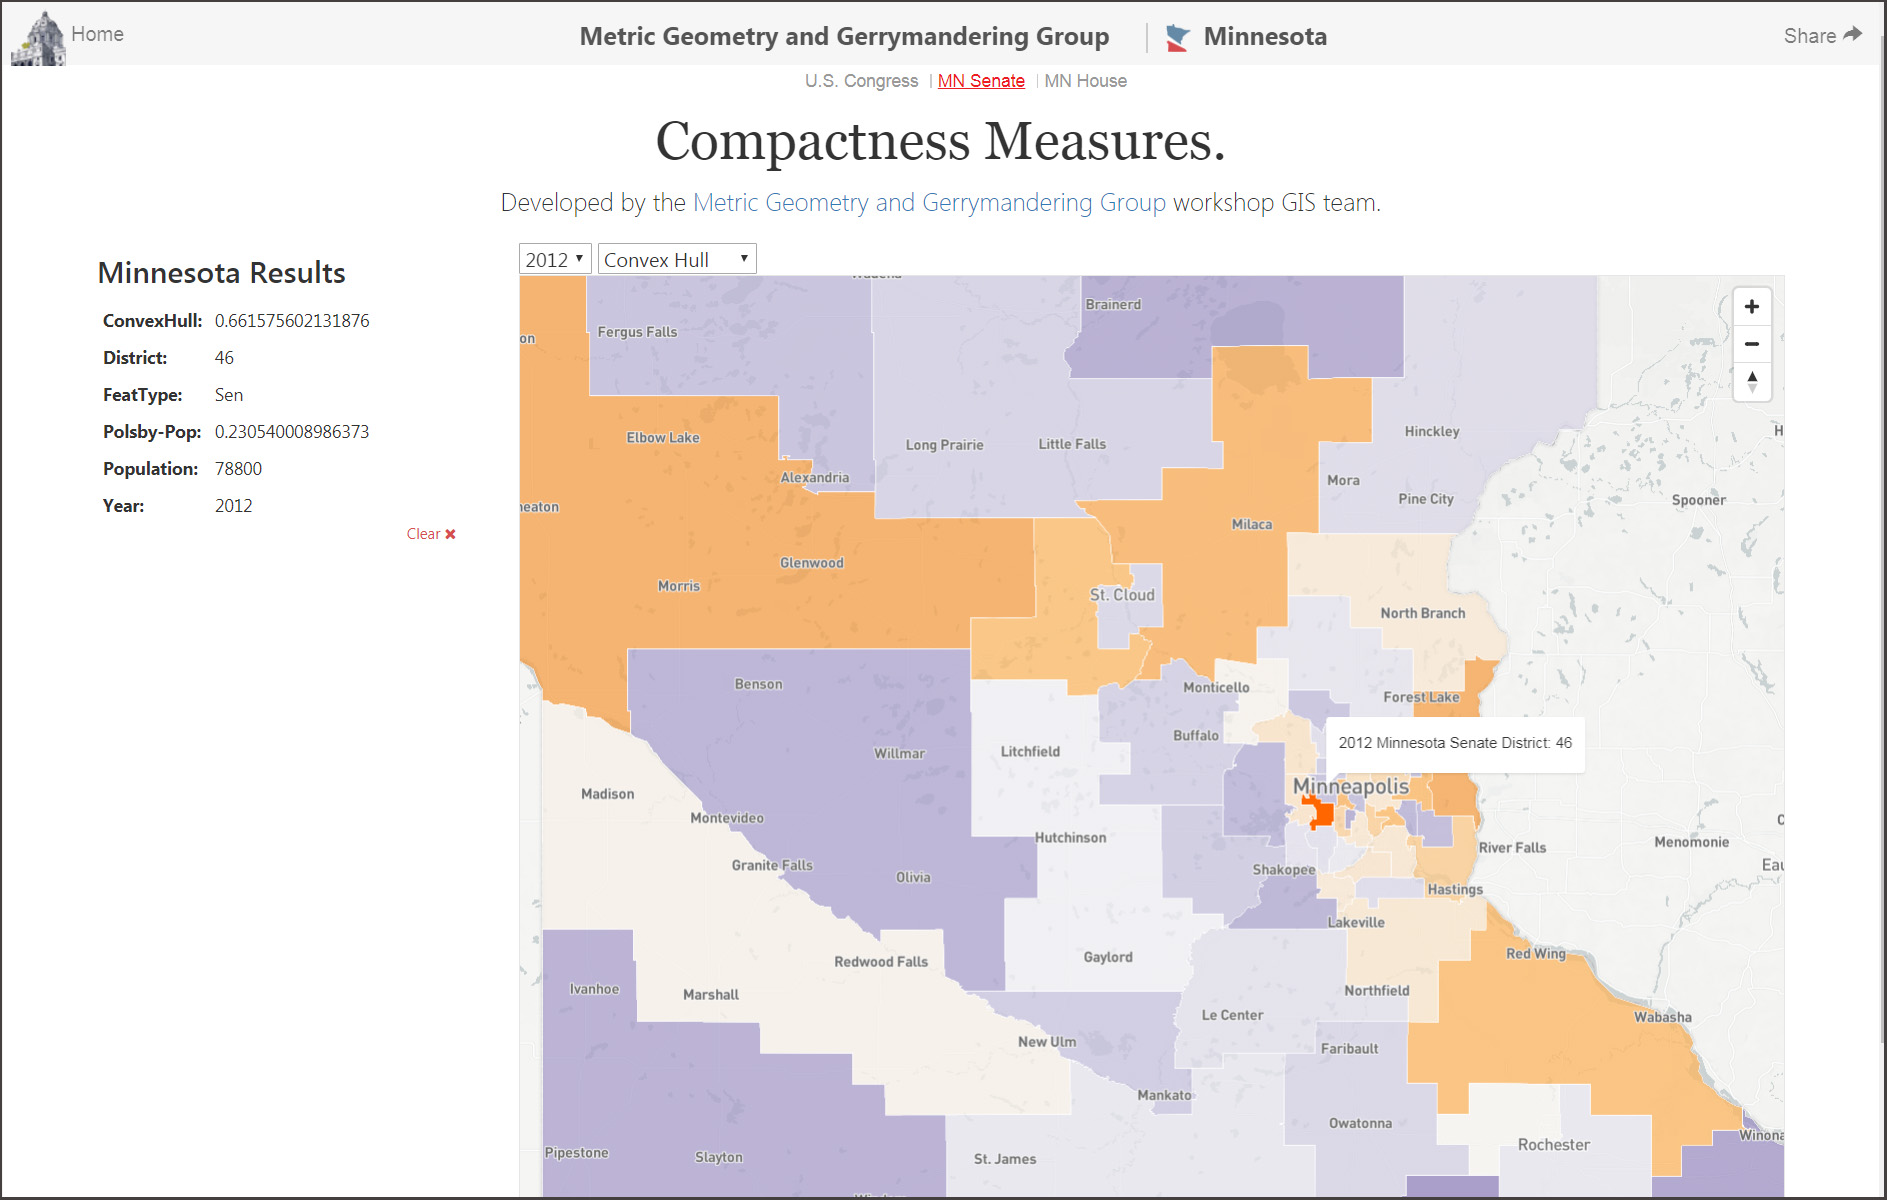
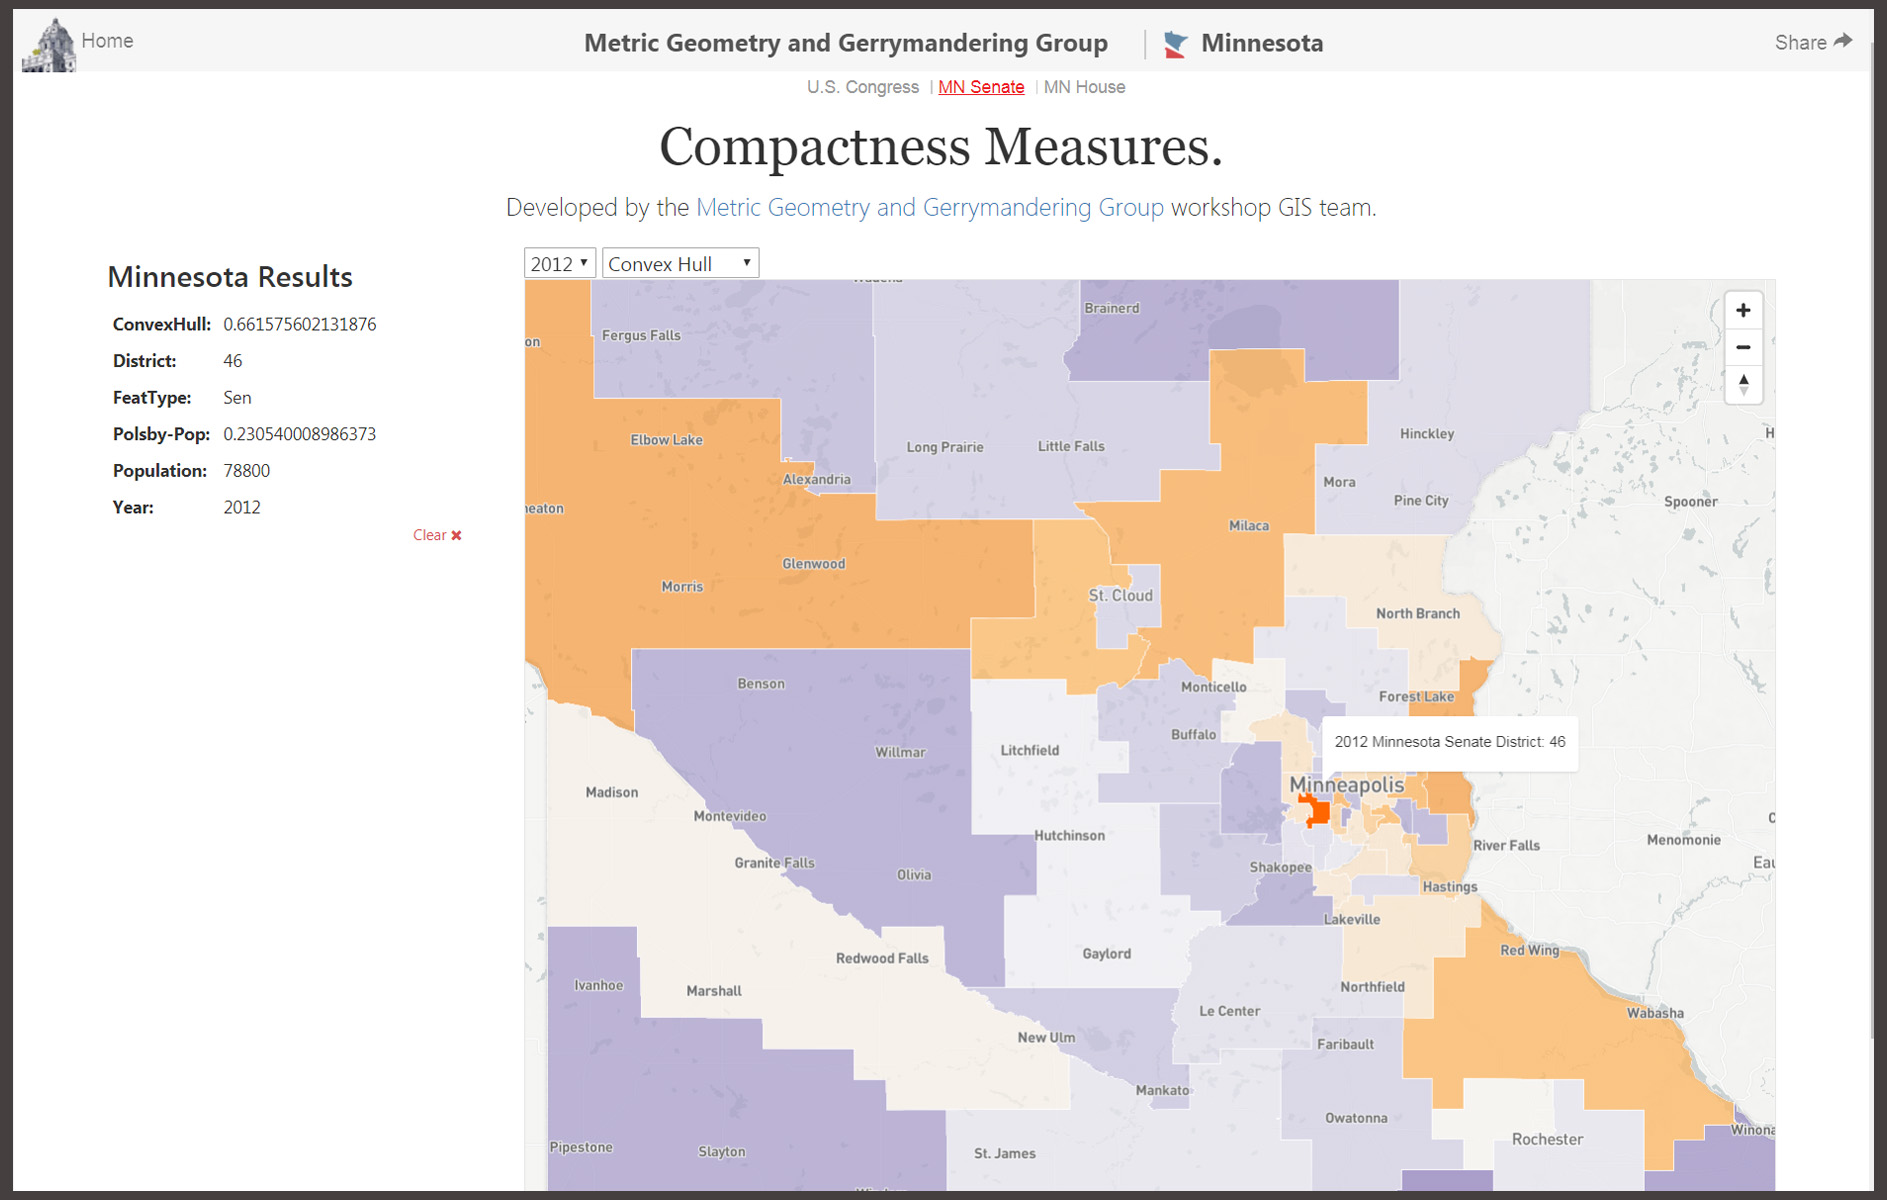
change og meta

diff --git a/index.html b/index.html
@@ -6,9 +6,24 @@
     <meta name="viewport" content="width=device-width, minimal-ui, minimum-scale=1.0, maximum-scale=1.0, user-scalable=no">
     <!-- The above 3 meta tags *must* come first in the head; any other head content must come *after* these tags -->
     <meta name="apple-mobile-web-app-capable" content="yes" />
-    <meta name="description" content="Interactive mapping of the 2016 Minnesota election.">
-    <meta name="author" content="Leg. Coordinating Commission GIS">
-    <meta name="keywords" content="Election, Map, LCC, Minnesota">
+    <meta name="description" content="Measuring compactness scores from 2012 Minnesota redistricting.">
+    <meta name="author" content="Metric Geometry and Gerrymandering Group">
+    <meta name="keywords" content="gerrymandr, redistricting, LCC, Minnesota">
+
+    <!--Facebook Share customization open graph meta tags. https://developers.facebook.com/tools/debug/og/object/-->
+    <meta property="fb:app_id" content="1124840784290142" />
+    <meta property="og:url"                content="http://www.gis.leg.mn/iMaps/metricViz/" />
+    <meta property="og:type"               content="website" />
+    <meta property="og:title"              content="Minnesota redistricting compactness scores" />
+    <meta property="og:description"        content="Interactive district map measuring compactness scores from 2012 Minnesota redistricting. Built by the Metric Geometry and Gerrymandering Group." />
+    <meta property="og:image"              content="http://www.gis.leg.mn/iMaps/metricViz/img/display.jpg" />
+
+    <meta name="twitter:card" content="summary_large_image">
+    <meta name="twitter:site:id" content="@gerrymandr">
+    <meta name="twitter:creator" content="@gerrymandr">
+    <meta name="twitter:title" content="Minnesota redistricting compactness scores">
+    <meta name="twitter:description" content="Interactive district map measuring compactness scores from 2012 Minnesota redistricting. Built by the Metric Geometry and Gerrymandering Group.">
+    <meta name="twitter:image" content="http://www.gis.leg.mn/iMaps/metricViz/img/display.jpg">
 
     <title>Metric visualizer</title>
 
@@ -56,7 +71,7 @@
           </li>
 
           <li id="twitter">
-              <a href="http://twitter.com/intent/tweet?url=http%3A%2F%2Fwww.gis.leg.mn%2FiMaps%2Fminimal-ui&text=A%20New%20York%20Times%20inspired%20minimal%20user%20interface&hashtags=electionmapping, mapbox" target="_blank">
+              <a href="http://twitter.com/intent/tweet?url=http%3A%2F%2Fwww.gis.leg.mn%2FiMaps%2FmetricViz&text=Measuring%20compactness%20scores%20in%20Minnesota%20redistricting&hashtags=gerrymandr" target="_blank">
                   <i class="fa fa-twitter" aria-hidden="true"></i> Twitter
               </a>
           </li>
@@ -64,7 +79,7 @@
 
           <!-- https://www.linkedin.com/developer/apps/4241784/auth -->
           <li id="linkedin">
-              <a href="https://www.linkedin.com/shareArticle?mini=true&url=http://gis.leg.mn/iMaps/elections/2016/&title=A%20New%20York%20Times%20inspired%20minimal%20user%20interface&source=Minnesota Election Map" target="_blank">
+              <a href="https://www.linkedin.com/shareArticle?mini=true&url=http%3A%2F%2Fwww.gis.leg.mn%2FiMaps%2FmetricViz&text=Measuring%20compactness%20scores%20in%20Minnesota%20redistricting&source=Metric Geometry and Redistricg Group: Minnesota Scores" target="_blank">
                 <i class="fa fa-linkedin-square" aria-hidden="true"></i> LinkedIn
               </a>
           </li>
@@ -157,6 +172,14 @@
 
     <script src="js/app.js"></script>
     <script src="js/helper.js"></script>
+     <script>
+      (function(i,s,o,g,r,a,m){i['GoogleAnalyticsObject']=r;i[r]=i[r]||function(){
+      (i[r].q=i[r].q||[]).push(arguments)},i[r].l=1*new Date();a=s.createElement(o),
+      m=s.getElementsByTagName(o)[0];a.async=1;a.src=g;m.parentNode.insertBefore(a,m)
+      })(window,document,'script','https://www.google-analytics.com/analytics.js','ga');
+      ga('create', 'UA-7370043-3', 'auto');
+      ga('send', 'pageview');
+    </script>
 
   </body>
 </html>

diff --git a/js/app.js b/js/app.js
@@ -80,13 +80,10 @@ function initialize(){
             "fill-outline-color": "#fff",
             "fill-opacity":0.75
           }],
-            //create {layer}-highlighted layer to toggle selected districts in app
+        //create {layer}-highlighted layer to toggle selected districts in app
         [activeSelect.geography+"-highlighted", 'fill',["in", "District", ""],{"fill-color": '#ff6600',"fill-outline-color": "#fff","fill-opacity":1}]]      
 
-        layers.forEach(addLayer);
-
-        // Create a popup, but don't add it to the map yet.
-    
+        layers.forEach(addLayer);    
   });//end map on load
 } //end initialize
 
@@ -94,14 +91,14 @@ function addLayer(layer) {
            map.addLayer({
             "id": layer[0] +'-'+ activeSelect.year, //layer names take the form: geography-year, ex: cng-2012
             "type": layer[1],
-            "source": "mnleg_cng",
+            "source": "mnleg_cng",   //layer id from map.addSource()
             "source-layer": "final", //layer name in studio
             'filter': layer[2],
             "layout": {},
             "paint": layer[3],
-           }, 'waterway-label'); //place above this layer (within mapbox://styles/mggg/cj66qmslq7fh82ss33qbqlxoc basemap style)
+           }, 'waterway-label'); //place overlay layers above this layer, baked into basemap from Mapbox Studio
 
-           layersArray.push(layer[0] +'-'+ activeSelect.year);           
+           layersArray.push(layer[0] +'-'+ activeSelect.year); //place layer name inside layersArray to add/remove/edit later          
 };
 
 //remove layersArray element per 0.22.0
@@ -127,15 +124,6 @@ function mapResults(feature){
 function showResults(activeSelect, featureProperties){
   // console.log(activeSelect)
   var content = '';
-  var header ='';
-  var district = '';
-
-  var data = {
-    // activeTab:activeSelect.selection,
-    geography:activeSelect.geography
-  };
-  
-  header += "<h5>Results</h5>";
 
   for (attributes in featureProperties){
     if( attributes.match(/MNSENDIST/gi) || attributes.match(/OBJECTID/gi) || attributes.match(/Shape_Area/gi) || attributes.match(/Shape_Leng/gi) || attributes.match(/SENDIST/gi) || attributes.match(/memid/gi) || attributes.match(/name/gi) || attributes.match(/party/gi)){

diff --git a/js/helper.js b/js/helper.js
@@ -80,15 +80,10 @@ $( document ).ready(function() {
   //mousemove is too slow
   map.on('click', function (e) {
     $('#clear').show();
-    // console.log(e.point)
     var features = map.queryRenderedFeatures(e.point,{ layers: layersArray }); //queryRenderedFeatures returns an array
-    // var feature = features[0];
     var feature = (features.length) ? features[0] : '';
-    // console.log(feature.properties);
-    // removeLayers('pushpin');
     mapResults(feature);
-    showResults(activeSelect, feature.properties);
-       
+    showResults(activeSelect, feature.properties);  
   });
 
     //show pointer cursor

diff --git a/css/app.css b/css/app.css
@@ -7,7 +7,7 @@ html, body {
 }
 
 #results{
-	font-size:12px;
+	font-size:.85rem;
 }
 #dropyear{
 	position: absolute;
